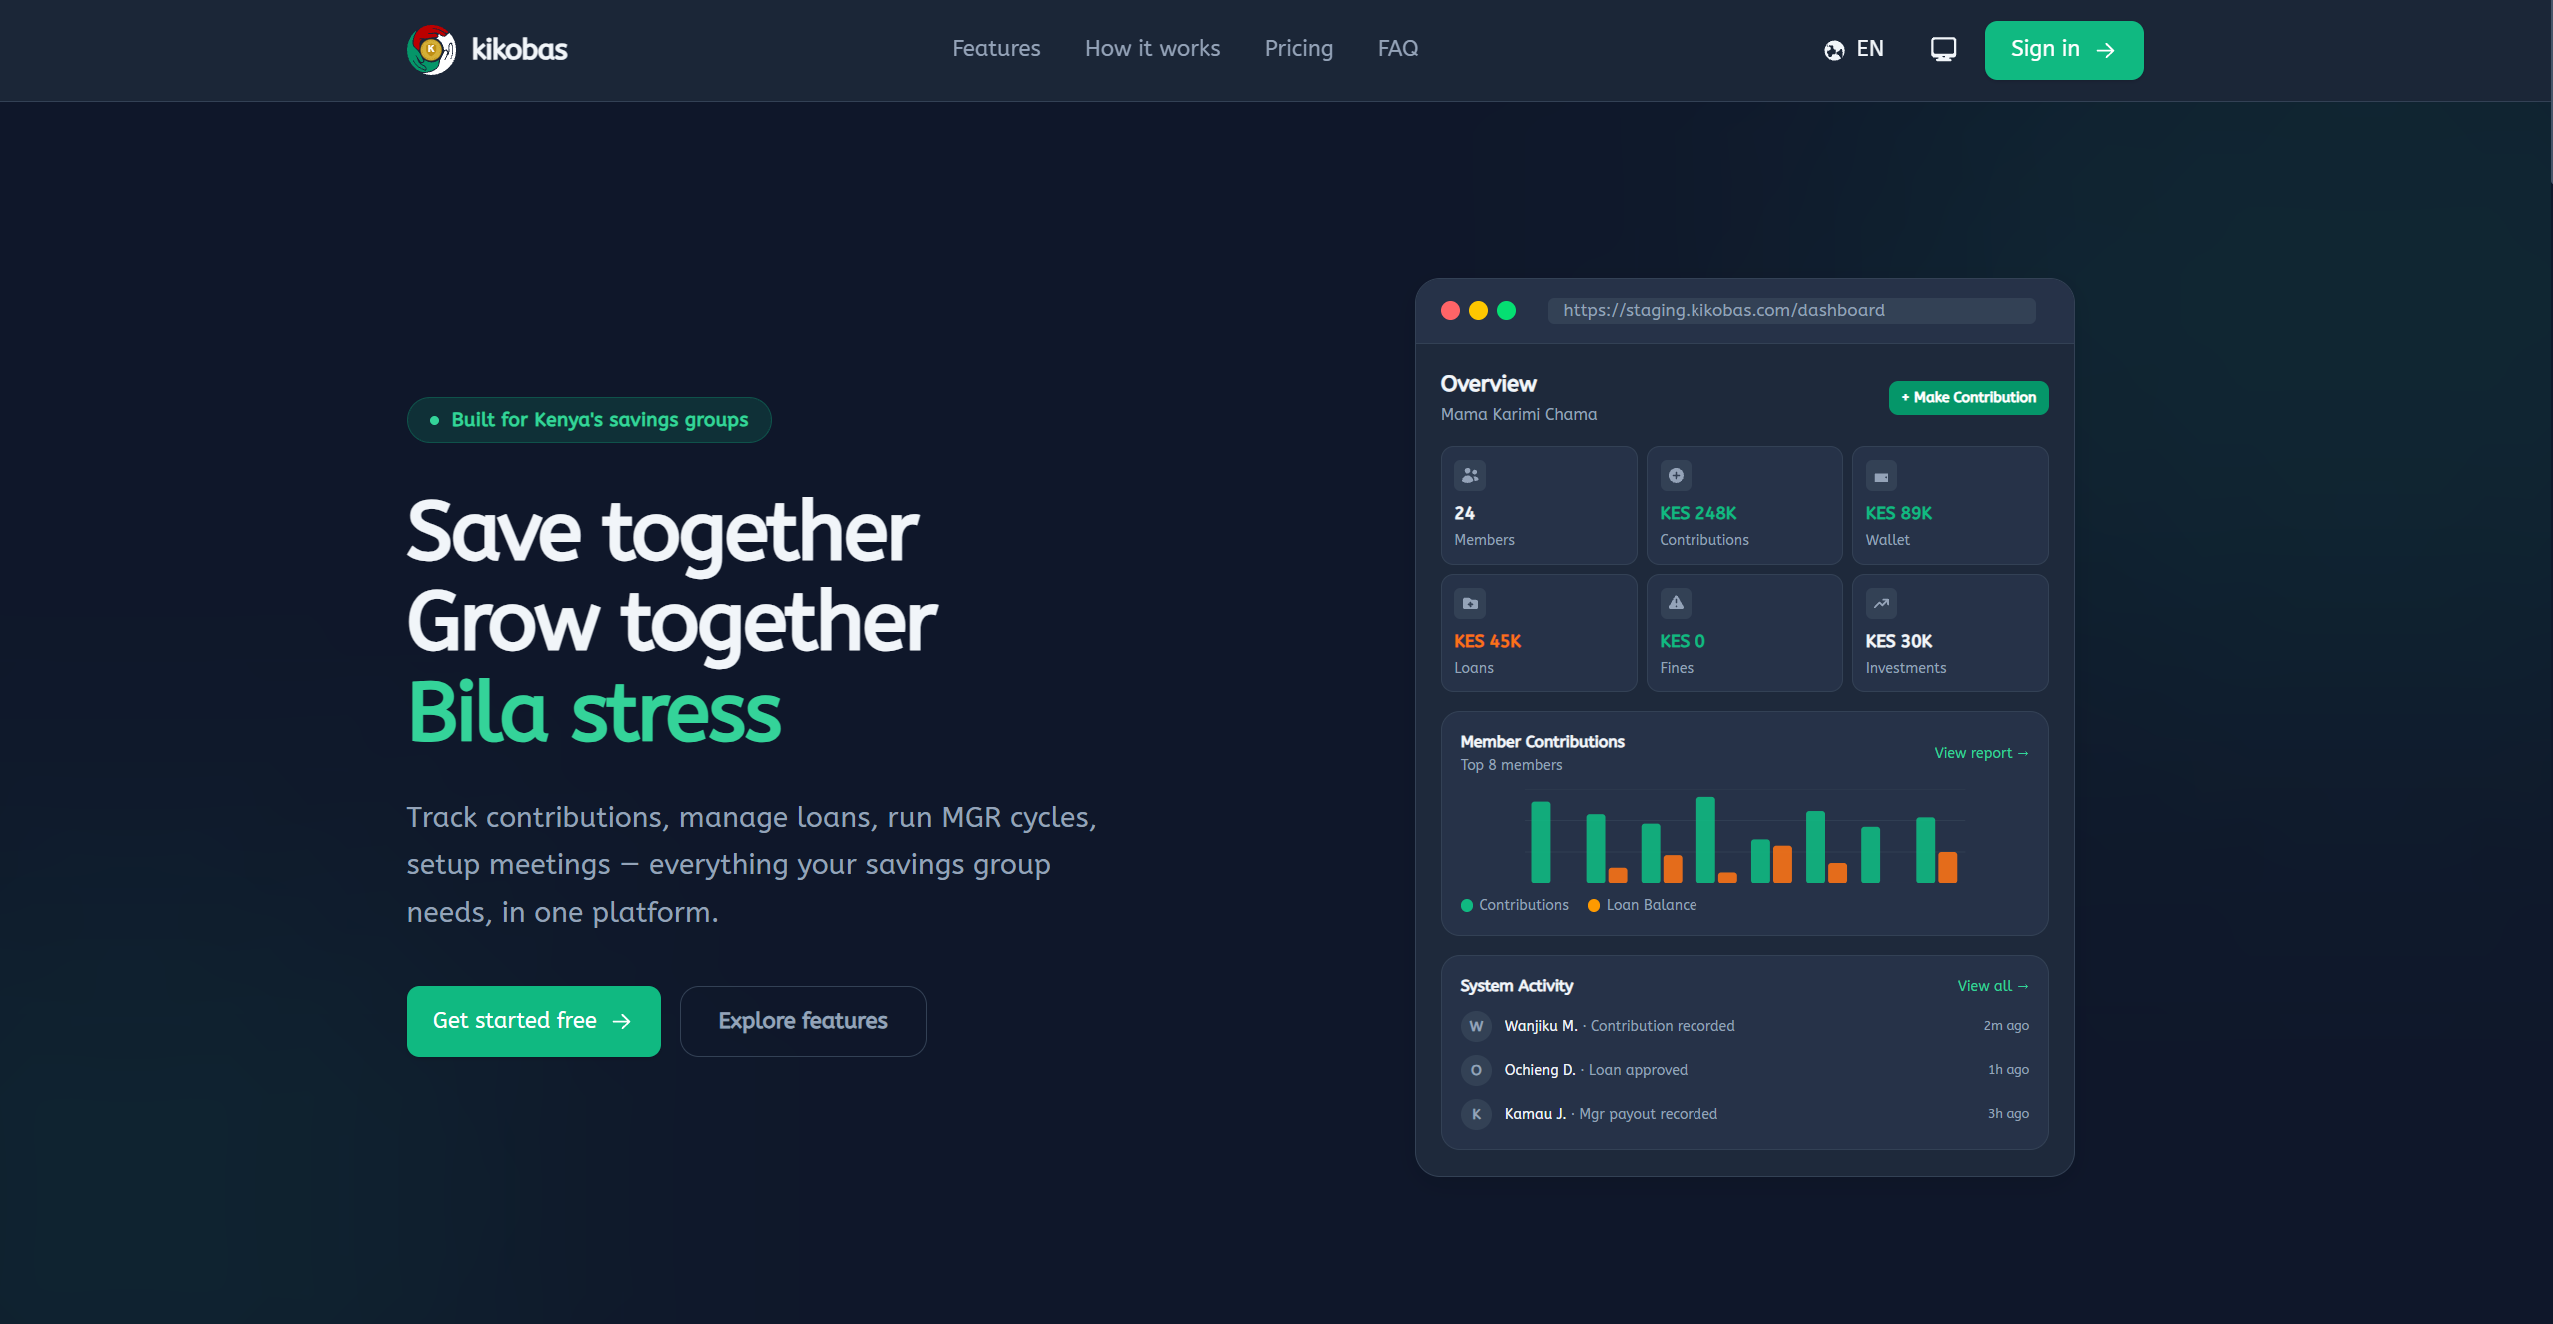
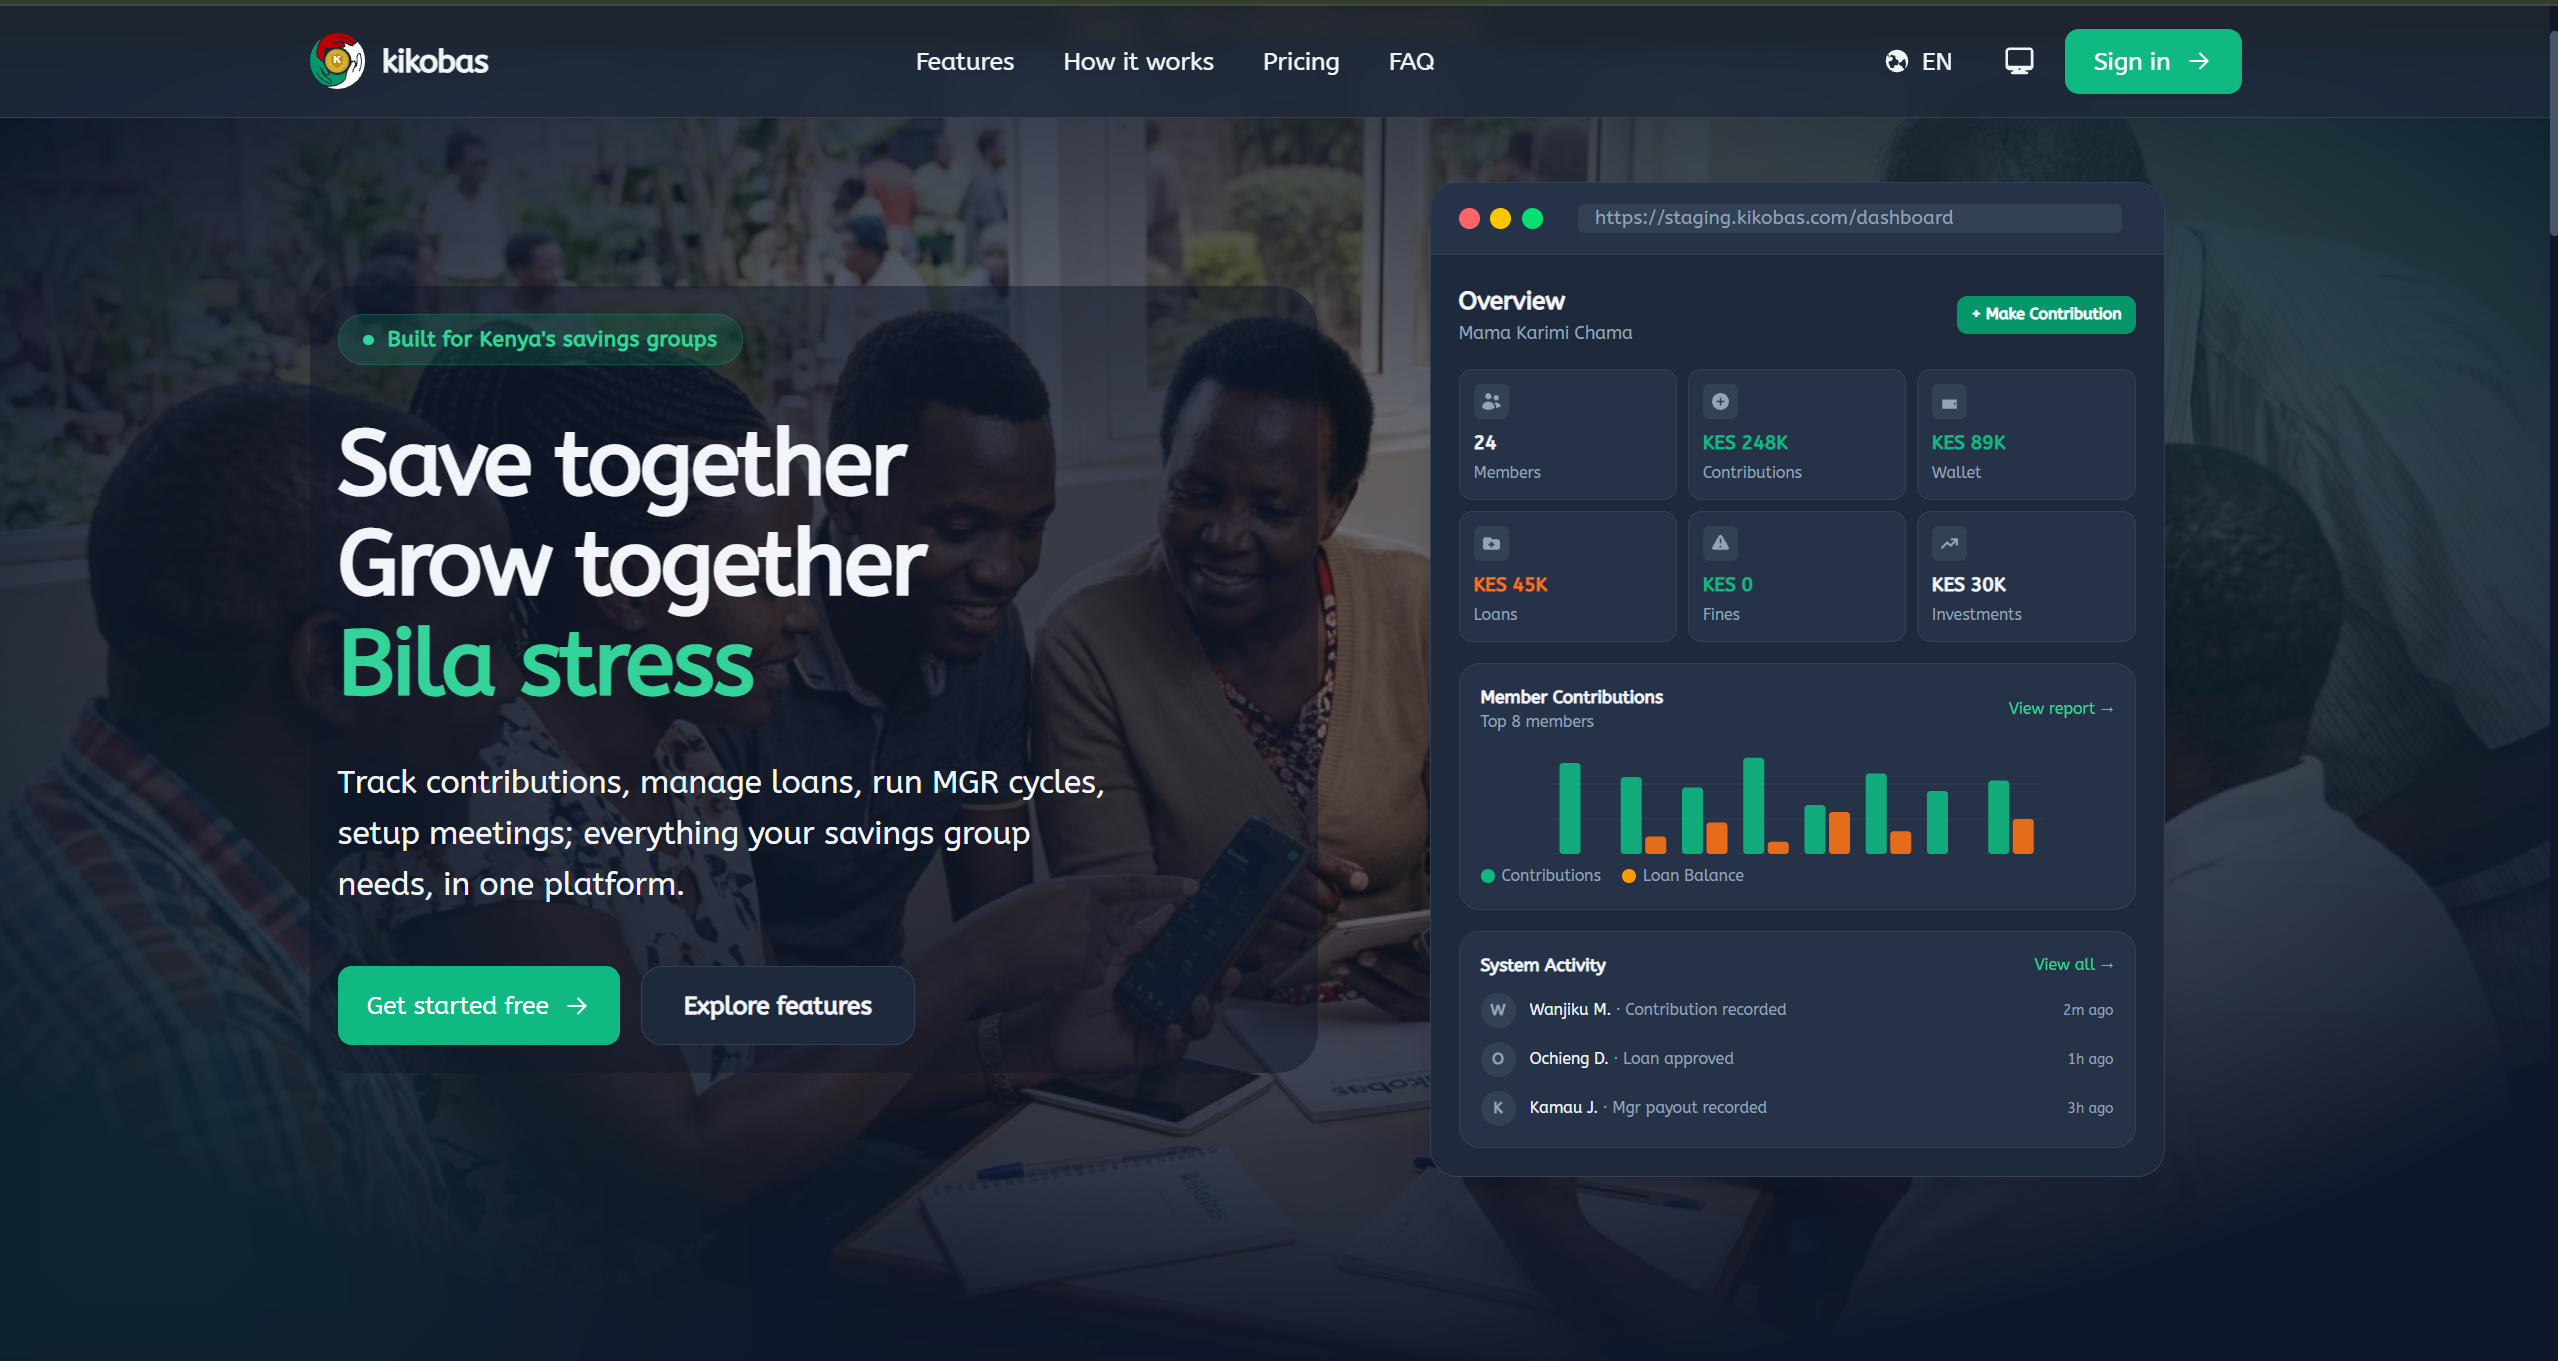
fix: update project summary and description for Kikobas

diff --git a/src/data/content.ts b/src/data/content.ts
@@ -123,9 +123,9 @@ export const PROJECTS: Project[] = [
     index: '01',
     title: 'Kikobas',
     year: '2026 - Present',
-    summary: 'A full-featured digital platform for Kenyan savings groups (chamas), expanding to East Africa.',
+    summary: 'A full-featured digital platform for Kenyan savings groups (chamas).',
     description:
-      "A full-featured digital platform for Kenyan savings groups (chamas), expanding to East Africa. Replaces WhatsApp threads and Excel sheets with transparent, auditable tools for contributions, loans, fines, merry-go-round, investments, dividends, meetings, a welfare fund, documents, bank/mobile-money statement reconciliation, and an AI-powered Chama Advisor.",
+      "A full-featured digital platform for Kenyan savings groups (chamas). Replaces WhatsApp threads and Excel sheets with transparent, auditable tools for contributions, loans, fines, merry-go-round, investments, dividends, meetings, a welfare fund, documents, bank/mobile-money statement reconciliation, and an AI-powered Chama Advisor.",
     tags: ['Next.js', 'TypeScript', 'React Native', 'Docker'],
     images: [kikobas1, kikobas2, kikobas3, kikobas4],
     status: 'In Testing',      

diff --git a/src/components/About.tsx b/src/components/About.tsx
@@ -67,7 +67,7 @@ export function About() {
             <img
               src={portrait}
               alt="Dennis Tomno"
-              className="h-full w-full object-cover grayscale transition duration-700 hover:grayscale-0"
+              className="h-full w-full object-cover transition duration-700"
             />
             <div className="pointer-events-none absolute inset-0 bg-gradient-to-t from-signal/25 via-transparent to-transparent mix-blend-color" />
           </div>
